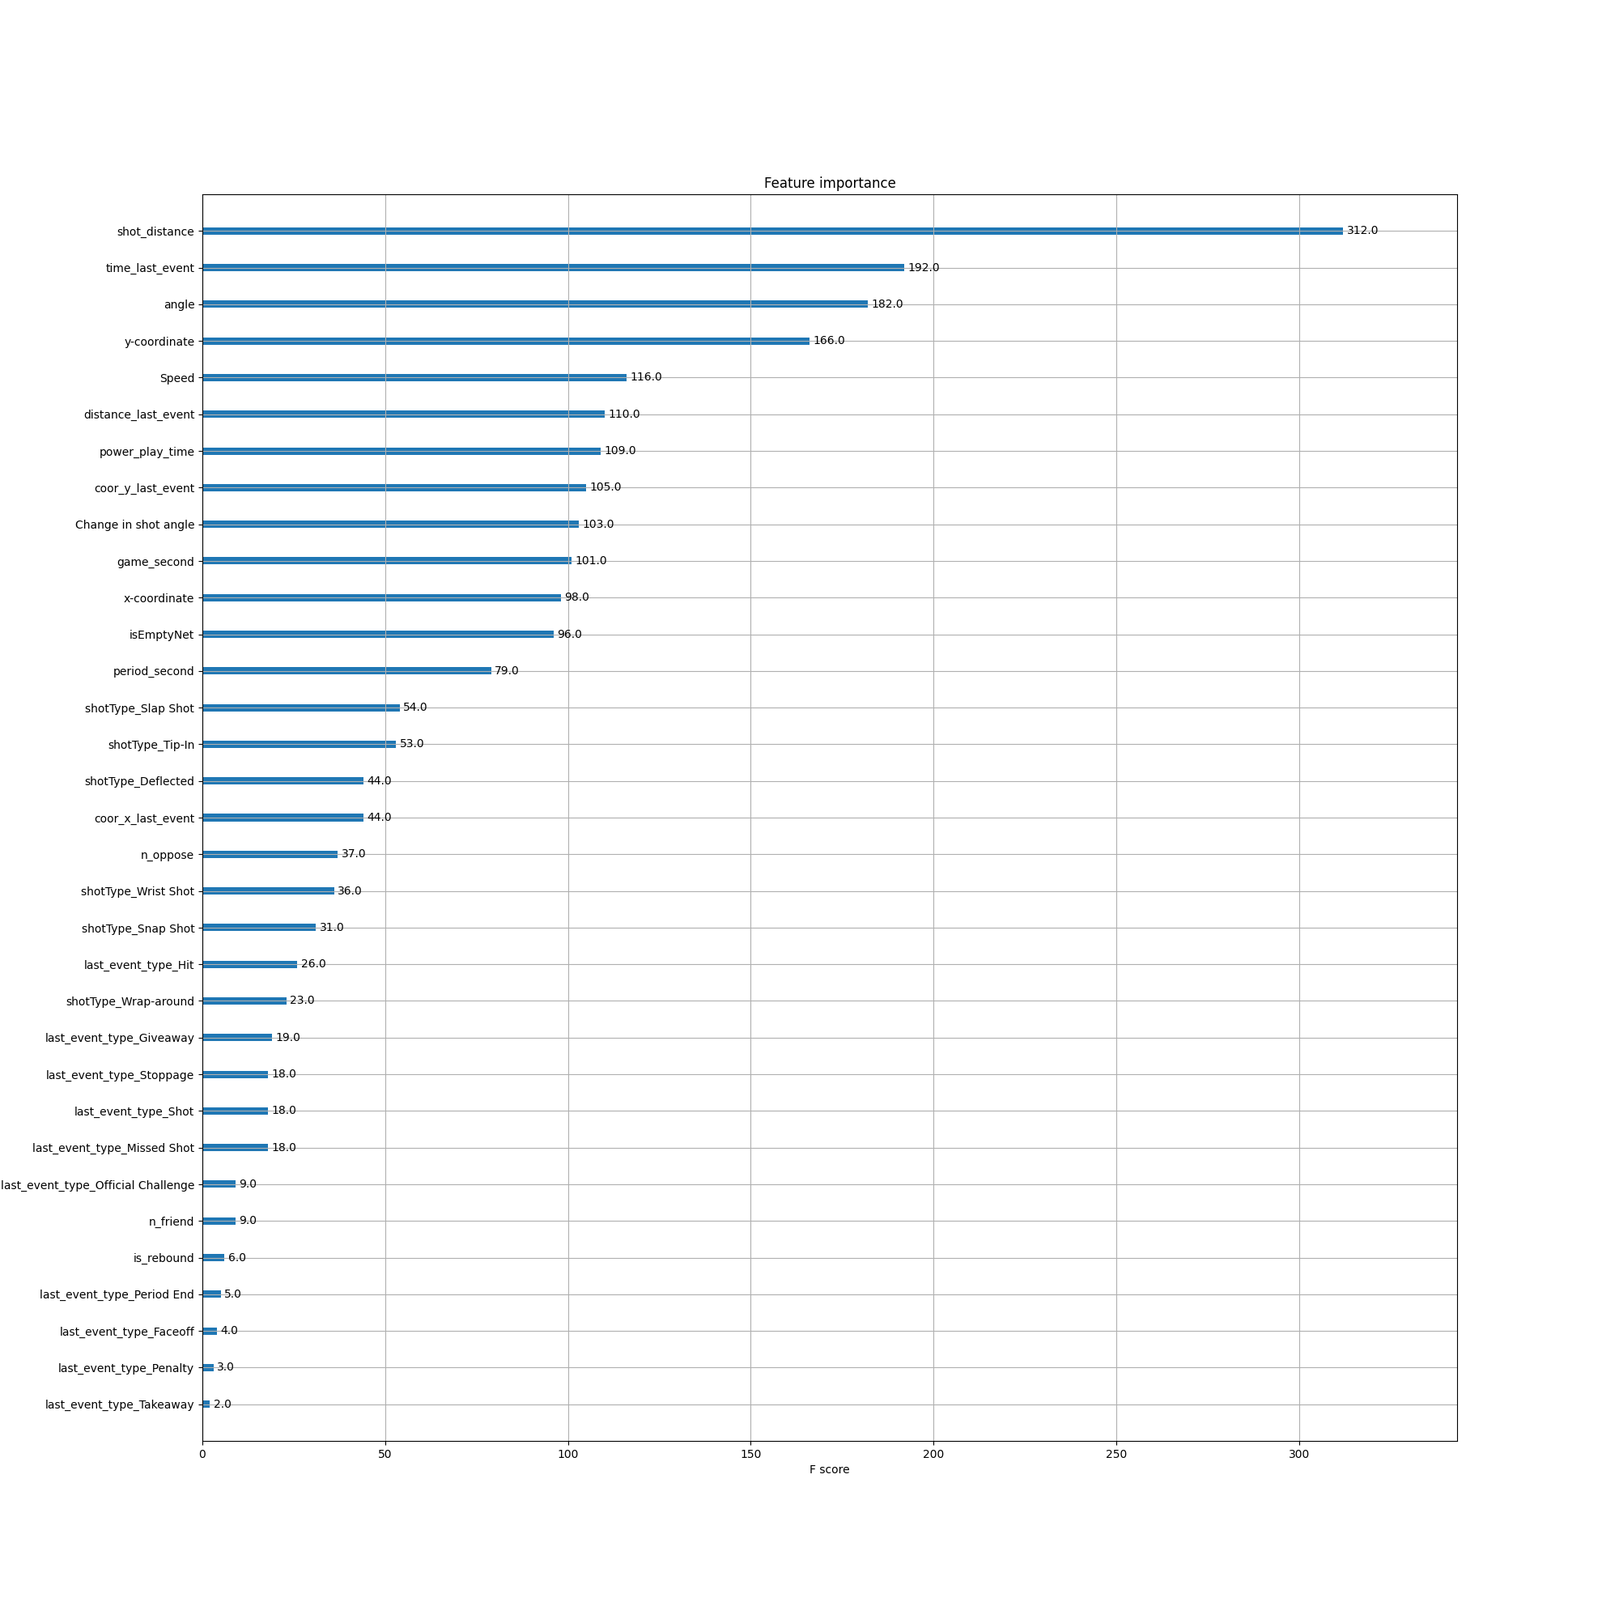
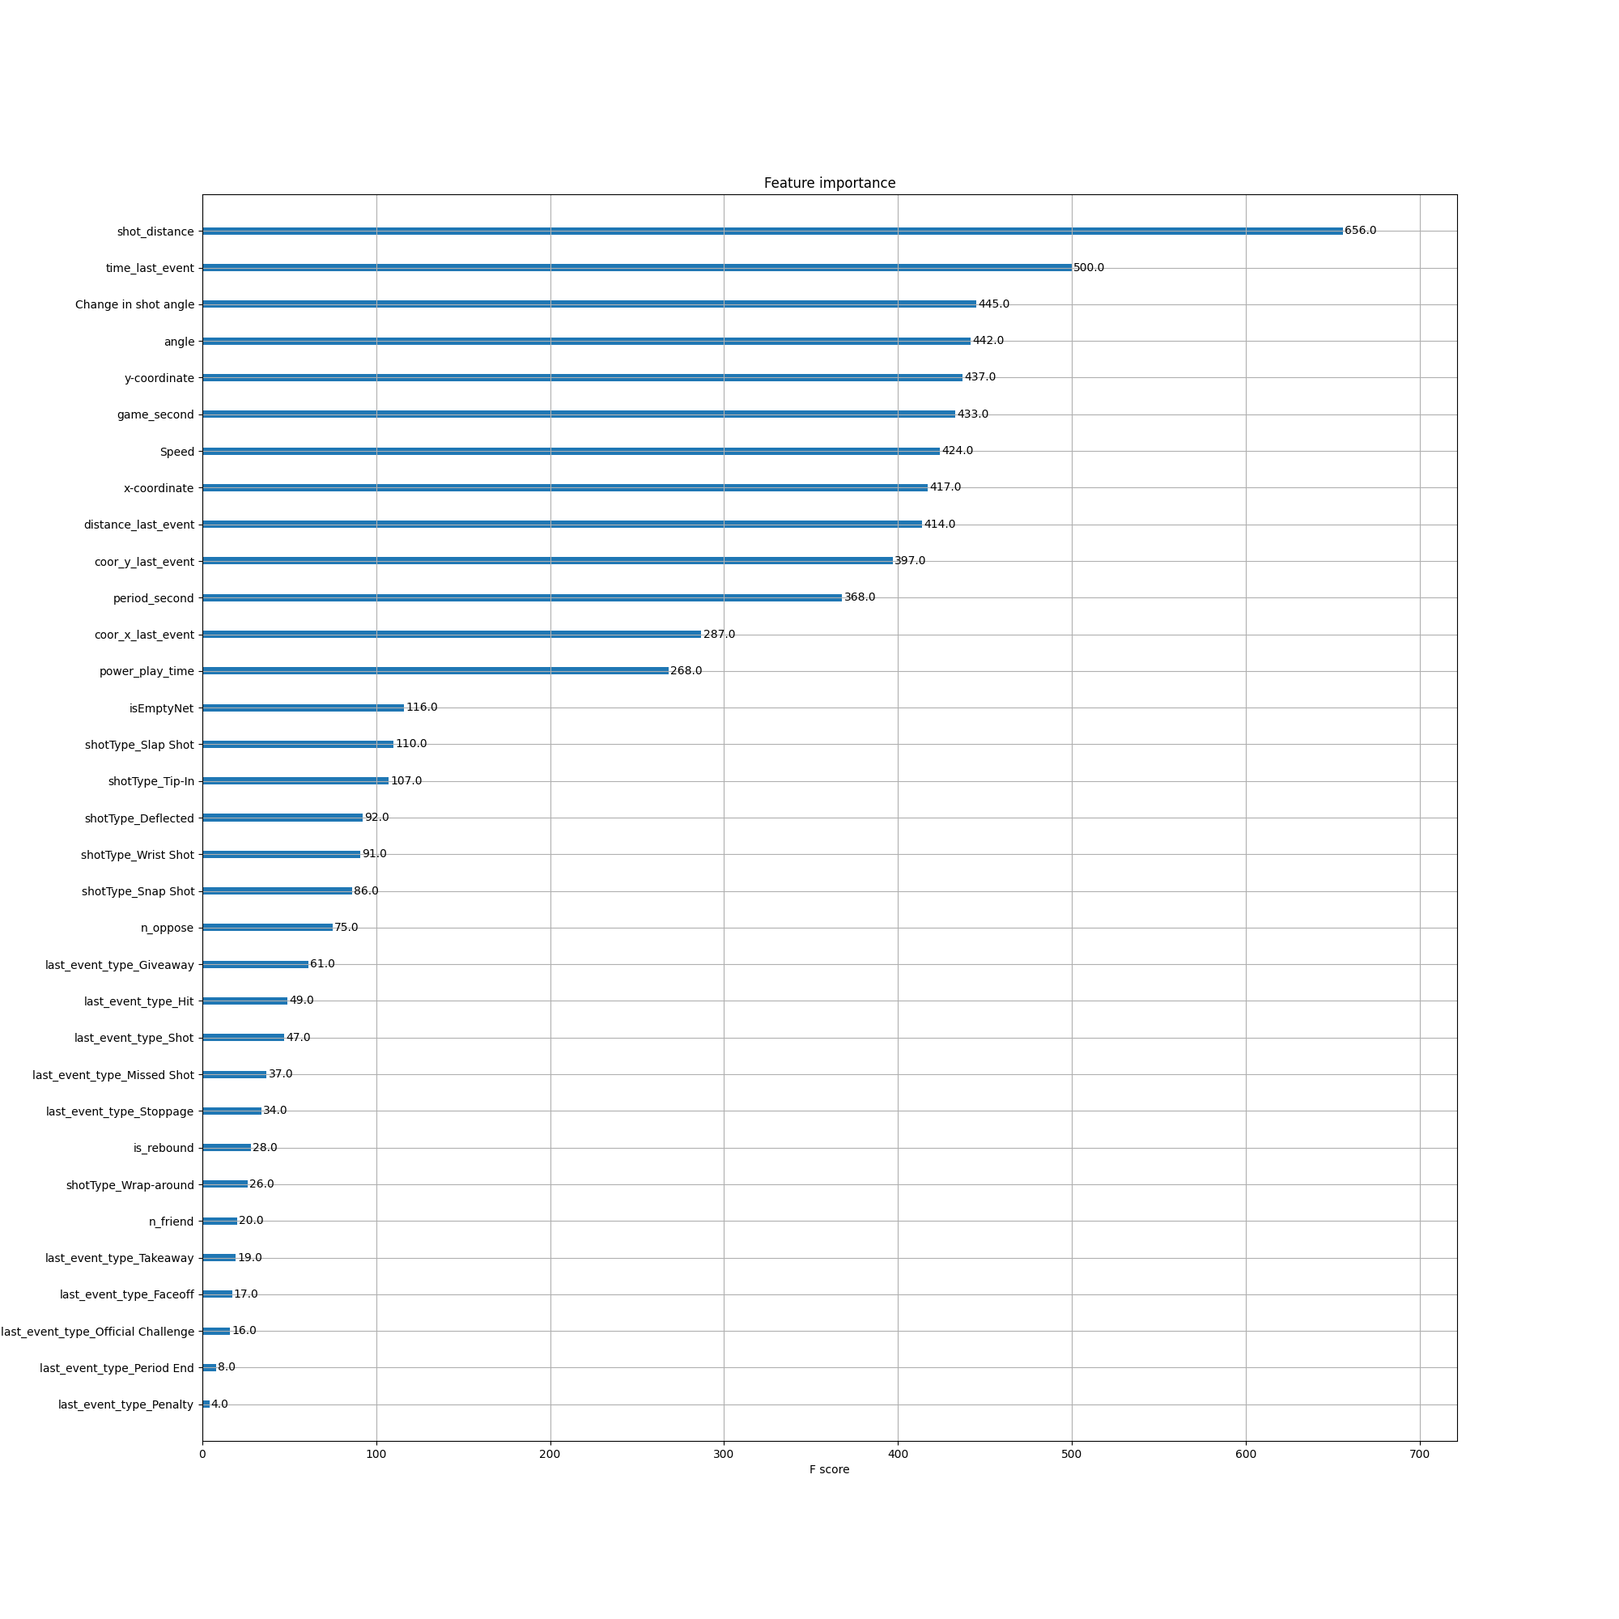
completed blogpost for feature engineering 1 and advanced model. change the code for plotting the advanced model that include four plots in a single figure. log hyper-parameters of the xgboost model to the comet

diff --git a/xgboost_class.py b/xgboost_class.py
@@ -210,25 +210,52 @@ class xgboost_model():
         fig.show()
         fig.write_image(save_path)
 
-    def plot_goal_rate(self, results, save_path):
-        goal_rate_mean = []
-        for i in range(len(results['val']['probabilities'])):
-            df = pd.DataFrame(
-                {'isgoal': results['val']['labels'][i], 'probabilities': results['val']['probabilities'][i]})
-            # calculate shot probability model percentile for each shot
-            df['percentile'] = df['probabilities'].rank(pct=True)
-            # group shots by percentile and calculate goal rate for each group
-            goal_rates = df.groupby(pd.cut(df['percentile'], bins=[
-                                    0]+[i/10 for i in range(1, 11)], include_lowest=True), observed=False)['isgoal'].mean()
-            goal_rate_mean.append(goal_rates)
+    def plot_roc_simple(self, models, results, save_path):
+        for j, model in enumerate(models):
+            fpr_mean = np.linspace(0, 1, 10)
+            interp_tprs = []
+            for i in range(10):
+                fpr = results[j]['val']['fpr'][i]
+                tpr = results[j]['val']['tpr'][i]
+                interp_tpr = np.interp(fpr_mean, fpr, tpr)
+                interp_tpr[0] = 0.0
+                interp_tprs.append(interp_tpr)
+            tpr_mean = np.mean(interp_tprs, axis=0)
+            auc = np.mean(results[j]['val']['auc'])
+            plt.plot(fpr_mean, tpr_mean,
+                     label=f"{model} (area = {round(auc, 2)})")
 
-        goal_rate_mean = np.array(goal_rate_mean).mean(axis=0)
-        goal_rates_mid = []
-        for i in range(len(goal_rates.index)):
-            goal_rates_mid.append(goal_rates.index[i].mid)
+        plt.plot(fpr_mean, fpr_mean, linestyle='--',
+                 color='r', label='random guess')
+        plt.xlabel("False Positive Rate")
+        plt.ylabel("True Positive Rate")
+        plt.title("ROC Curve")
+        plt.legend(loc="lower right")
+        plt.savefig(save_path)
+        plt.show()
 
-        # plot the goal rates as a function of the shot probability model percentile
-        plt.plot(np.array(goal_rates_mid) * 100, goal_rate_mean)
+    def plot_goal_rate(self, models, results, save_path):
+        for j, model in enumerate(models):
+            goal_rate_mean = []
+            for i in range(len(results[j]['val']['probabilities'])):
+                df = pd.DataFrame(
+                    {'isgoal': results[j]['val']['labels'][i], 'probabilities': results[j]['val']['probabilities'][i]})
+                # calculate shot probability model percentile for each shot
+                df['percentile'] = df['probabilities'].rank(pct=True)
+                # group shots by percentile and calculate goal rate for each group
+                goal_rates = df.groupby(pd.cut(df['percentile'], bins=[
+                                        0]+[i/10 for i in range(1, 11)], include_lowest=True), observed=False)['isgoal'].mean()
+                goal_rate_mean.append(goal_rates)
+
+            goal_rate_mean = np.array(goal_rate_mean).mean(axis=0)
+            goal_rates_mid = []
+            for i in range(len(goal_rates.index)):
+                goal_rates_mid.append(goal_rates.index[i].mid)
+
+            # plot the goal rates as a function of the shot probability model percentile
+            plt.plot(np.array(goal_rates_mid) * 100,
+                     goal_rate_mean, label=model)
+
         plt.gca().yaxis.set_major_formatter(mtick.PercentFormatter(xmax=1.0))
         plt.yticks(np.arange(0, 1.1, 0.1))
         plt.xticks(np.arange(0, 110, 10))
@@ -237,36 +264,40 @@ class xgboost_model():
         plt.title('Goal Rate')
         plt.ylabel('Goals / (Shots + Goals)')
         plt.grid(True)
+        plt.legend()
         plt.savefig(save_path)
         plt.show()
 
-    def plot_cumulative(self, results, save_path):
-        goal_rate_mean = []
-        for i in range(len(results['val']['probabilities'])):
-            df = pd.DataFrame(
-                {'isgoal': results['val']['labels'][i], 'probabilities': results['val']['probabilities'][i]})
-            # calculate shot probability model percentile for each shot
-            df['percentile'] = df['probabilities'].rank(pct=True)
-            # group shots by percentile and calculate goal rate for each group
-            goal_rates = df.groupby(pd.cut(df['percentile'], bins=[
-                                    0]+[i/10 for i in range(1, 11)], include_lowest=True), observed=False)['isgoal'].mean()
-            # Calculate the frequency and percentage of goals for each group
-            goal_freq = goal_rates * goal_rates.index.to_series().apply(lambda x: x.length)
-            goal_perc = goal_freq / goal_freq.sum()
-            # cum_goal_perc = goal_perc.cumsum(axis=0)
-            cum_goal_perc = np.cumsum(goal_perc[::-1])[::-1]
-            goal_rate_mean.append(cum_goal_perc)
+    def plot_cumulative(self, models, results, save_path):
+        for j, model in enumerate(models):
+            goal_rate_mean = []
+            for i in range(len(results[j]['val']['probabilities'])):
+                df = pd.DataFrame(
+                    {'isgoal': results[j]['val']['labels'][i], 'probabilities': results[j]['val']['probabilities'][i]})
+                # calculate shot probability model percentile for each shot
+                df['percentile'] = df['probabilities'].rank(pct=True)
+                # group shots by percentile and calculate goal rate for each group
+                goal_rates = df.groupby(pd.cut(df['percentile'], bins=[
+                                        0]+[i/10 for i in range(1, 11)], include_lowest=True), observed=False)['isgoal'].mean()
+                # Calculate the frequency and percentage of goals for each group
+                goal_freq = goal_rates * goal_rates.index.to_series().apply(lambda x: x.length)
+                goal_perc = goal_freq / goal_freq.sum()
+                # cum_goal_perc = goal_perc.cumsum(axis=0)
+                cum_goal_perc = np.cumsum(goal_perc[::-1])[::-1]
+                goal_rate_mean.append(cum_goal_perc)
 
-        goal_rate_mean = np.array(goal_rate_mean).mean(axis=0)
-        goal_rates_mid = []
-        for i in range(len(goal_rates.index)):
-            goal_rates_mid.append(goal_rates.index[i].mid)
+            goal_rate_mean = np.array(goal_rate_mean).mean(axis=0)
+            goal_rates_mid = []
+            for i in range(len(goal_rates.index)):
+                goal_rates_mid.append(goal_rates.index[i].mid)
 
-        goal_rate_mean = np.append(goal_rate_mean, 0)
-        goal_rates_mid = np.append(goal_rates_mid, 1)
+            goal_rate_mean = np.append(goal_rate_mean, 0)
+            goal_rates_mid = np.append(goal_rates_mid, 1)
 
-        # plot the goal rates as a function of the shot probability model percentile
-        plt.plot(np.array(goal_rates_mid) * 100, goal_rate_mean)
+            # plot the goal rates as a function of the shot probability model percentile
+            plt.plot(np.array(goal_rates_mid) * 100,
+                     goal_rate_mean, label=model)
+
         plt.gca().yaxis.set_major_formatter(mtick.PercentFormatter(xmax=1.0))
         plt.yticks(np.arange(0, 1.1, 0.1))
         plt.xticks(np.arange(0, 110, 10))
@@ -274,6 +305,7 @@ class xgboost_model():
         plt.xlabel('Shot Probability Model Percentile')
         plt.ylabel('Proportion')
         plt.title('Cumulative % of Goals')
+        plt.legend()
         plt.grid(True)
         plt.savefig(save_path)
         plt.show()
@@ -289,7 +321,7 @@ class xgboost_model():
         disp.figure_.savefig(save_path)
         plt.show()
 
-    def log_experiment(self, results, experiment_tag, log_model, model_name, model_path):
+    def log_experiment(self, results, experiment_tag, log_model, model_name, model_path, hp, hparameters):
         experiment = Experiment(api_key=os.getenv("COMET_API_KEY"), project_name=os.getenv(
             "COMET_PROJECT_NAME"), workspace=os.getenv("COMET_WORKSPACE"))
         accuracy = np.mean(results['val']['accuracy'])
@@ -300,6 +332,8 @@ class xgboost_model():
         experiment.log_metrics(metrics)
         experiment.add_tag(experiment_tag)
         experiment.log_confusion_matrix(matrix=confusion_matrix)
+        if hp:
+            experiment.log_parameters(hparameters)
         if log_model:
             experiment.log_model(model_name, model_path)
 

diff --git a/advanced_model.py b/advanced_model.py
@@ -4,26 +4,30 @@ from dotenv import load_dotenv
 load_dotenv()
 
 
-def train_model_and_plot(train_data, train_label, params, model_name, tag, log_model, model_path):
+def train_model_and_plot(train_data, train_label, params, model_name, tag, log_model, model_path, hp, hparameters):
     results = xgml.train_model(train_data, train_label, params)
 
-    xgml.plot_roc(results, os.getenv(
-        "XGB_IMAGE_PATH") + model_name + '_roc.png')
+    # xgml.plot_roc(results, os.getenv(
+    #     "XGB_IMAGE_PATH") + model_name + '_roc.png')
 
-    xgml.plot_goal_rate(results, os.getenv(
-        "XGB_IMAGE_PATH") + model_name + '_goal_rate.png')
+    # xgml.plot_goal_rate(results, os.getenv(
+    #     "XGB_IMAGE_PATH") + model_name + '_goal_rate.png')
 
-    xgml.plot_cumulative(results, os.getenv(
-        "XGB_IMAGE_PATH") + model_name + '_cumulative.png')
+    # xgml.plot_cumulative(results, os.getenv(
+    #     "XGB_IMAGE_PATH") + model_name + '_cumulative.png')
 
-    xgml.plot_calibration_curve(results, os.getenv(
-        "XGB_IMAGE_PATH") + model_name + '_calibration_curve.png')
+    # xgml.plot_calibration_curve(results, os.getenv(
+    #     "XGB_IMAGE_PATH") + model_name + '_calibration_curve.png')
 
-    xgml.log_experiment(results, tag, log_model, model_name, model_path)
+    xgml.log_experiment(results, tag, log_model, model_name,
+                        model_path, hp, hparameters)
+
+    return results
 
 
 if __name__ == "__main__":
     xgml = xgboost_model()
+    plot_results = []
 
     train_data, train_label = xgml.baseline_preprocessing()
 
@@ -33,13 +37,17 @@ if __name__ == "__main__":
     }
 
     print('Training baseline model and plotting...')
-    train_model_and_plot(train_data, train_label, params,
-                         'baseline', 'xgboost_baseline', False, '')
+    res = train_model_and_plot(train_data, train_label, params,
+                               'baseline', 'xgboost_baseline', log_model=False, model_path='', hp=False, hparameters={})
+
+    plot_results.append(res)
+
+    xgml.plot_calibration_curve(res, os.getenv(
+        "XGB_IMAGE_PATH") + 'xgboost_baseline' + '_calibration_curve.png')
 
     param_grid = {
         'objective': ['binary:logistic'],
         'max_depth': [3, 5, 7],
-        'n_estimators': [50, 100, 200],
         'learning_rate': [0.1, 0.01],
         'reg_alpha': [0.1, 0.001]
     }
@@ -53,7 +61,6 @@ if __name__ == "__main__":
 
     best_params['eval_metric'] = 'logloss'
     print(best_params)
-    del best_params['n_estimators']
 
     print('Training hyperparameter tuned model without cross validation for saving...')
     hptuned_model = xgml.train_model_nocv(train_data, train_label, best_params)
@@ -63,9 +70,14 @@ if __name__ == "__main__":
         os.getenv("XGB_MODEL_PATH") + 'hptuned_model.json')
 
     print('Training hyperparameter tuned model and plotting...')
-    train_model_and_plot(train_data, train_label, best_params,
-                         'hp_tuning', 'xgboost_hp_tuning', True,
-                         os.getenv("XGB_MODEL_PATH") + 'hptuned_model.json')
+    res = train_model_and_plot(train_data, train_label, best_params,
+                               'hp_tuning', 'xgboost_hp_tuning', log_model=True,
+                               model_path=os.getenv("XGB_MODEL_PATH") + 'hptuned_model.json', hp=True, hparameters=best_params)
+
+    plot_results.append(res)
+
+    xgml.plot_calibration_curve(res, os.getenv(
+        "XGB_IMAGE_PATH") + 'xgboost_hp_tuning' + '_calibration_curve.png')
 
     print('Performing feature selection...')
     train_data_feature_selected = xgml.feature_selection(train_data, train_label, best_params, os.getenv(
@@ -80,6 +92,20 @@ if __name__ == "__main__":
         os.getenv("XGB_MODEL_PATH") + 'feature_selected_model.json')
 
     print('Training feature selected model and plotting...')
-    train_model_and_plot(train_data_feature_selected,
-                         train_label, best_params, 'feature_selected', 'xgboost_feature_selected',
-                         True, os.getenv("XGB_MODEL_PATH") + 'feature_selected_model.json')
+    res = train_model_and_plot(train_data_feature_selected,
+                               train_label, best_params, 'feature_selected', 'xgboost_feature_selected',
+                               log_model=True, model_path=os.getenv("XGB_MODEL_PATH") + 'feature_selected_model.json', hp=False, hparameters={})
+
+    plot_results.append(res)
+
+    xgml.plot_calibration_curve(res, os.getenv(
+        "XGB_IMAGE_PATH") + 'xgboost_feature_selected' + '_calibration_curve.png')
+
+    xgml.plot_roc_simple(
+        ['xgboost_baseline', 'xgboost_hp_tuning', 'xgboost_feature_selected'], plot_results, os.getenv("XGB_IMAGE_PATH") + 'roc.png')
+
+    xgml.plot_goal_rate(['xgboost_baseline', 'xgboost_hp_tuning', 'xgboost_feature_selected'], plot_results, os.getenv(
+        "XGB_IMAGE_PATH") + 'goal_rate.png')
+
+    xgml.plot_cumulative(['xgboost_baseline', 'xgboost_hp_tuning', 'xgboost_feature_selected'], plot_results, os.getenv(
+        "XGB_IMAGE_PATH") + 'cumulative.png')

diff --git a/docs/feat_eng_adv_mdl.md b/docs/feat_eng_adv_mdl.md
@@ -19,20 +19,48 @@ This figure shows how the probability of scoring a goal changes with the distanc
 
 ![alt text](../images/feature_engineering1/goal_rate_distance.png)
 
-
+This figure shows the effect of distance from the net and net emptiness on the probability of scoring a goal. As explained in the document, the probability of scoring a goal with a non-empty net decreases as the distance increases, which is expected because it is harder to shoot past the goalie from far away. However, the probability of scoring a goal with an empty net does not follow the same trend. Although the probability is very low even near the net, because it is rare that the net is empty, there are some cases where the players score from a long distance when the net is empty. This may be because the players take advantage of the situation and try to shoot from their own zone or the neutral zone.
 
 ![alt text](../images/feature_engineering1/empty_net.png)
+
 ## Advanced Models
 ### 1.
 
 To evaluate the model performance more reliably and robustly, I used repeated k-fold cross-validation with k=5 and 10 repetitions. This technique splits the data into five folds and trains and validates the model on different combinations of them. Then, it averages the results over the repetitions to reduce the variance of the estimate[1]. The following figures show the results of this section.
+[This is the link to the experiment.](https://www.comet.com/ift6758-b09-project/ift6758-project-milestone2/bd6de33ca21d428da3dfbad5d8a45538)
 
-![alt text](../images/xgb/baseline_roc.png "baseline_roc")
-![alt text](../images/xgb/baseline_goal_rate.png "baseline_goal_rate")
-![alt text](../images/xgb/baseline_cumulative.png "baseline_cumulative")
-![alt text](../images/xgb/baseline_calibration_curve.png "baseline_calibration_curve")
+
 
 **Compare with logistic regression baseline**
 
 
 [1]: For this section i have used the codes of this [website](https://towardsdatascience.com/pooled-roc-with-xgboost-and-plotly-553a8169680c#:~:text=To%20get%20a%20ROC%20curve,validation%20and%20got%20500%20results.)
+
+### 2.
+We selected 'max_depth', 'n_estimators', 'learning_rate', and 'reg_alpha' as the hyperparameters that have the most influence on the model accuracy. We used the scikit-learn GridSearchCV function to find the best values for these hyperparameters. The best settings for the hyperparameters are: 'max_depth': 5, 'n_estimators': 200, 'learning_rate': 0.1, and 'reg_alpha': 0.001. The following figures show the results of hyper-parameter tuning.
+
+As you can see from the figures, the accuracy of the model, which is measured by AUC, has increased noticeably by almost 0.06. This means that the model can better distinguish between positive and negative classes. In addition, by looking at the calibration curve, we can say that now the model is better calibrated and performs well enough on the validation set. A well-calibrated model is one that produces probabilities that match the true outcomes. For example, if the model predicts a 70% chance of rain, it should rain 70% of the time.
+
+First of all, we created a correlation matrix for the features and set a threshold of 90% in order to remove the redundant features. After applying this, we found that period and game_second were correlated and we deleted one of them randomly. After that, we performed the xgboost plot_importance function and we got the result like the below figure. As you can see, by setting our threshold to 200, we can keep the important features and delete the rest. After this, we also calculated SHAP values for the data, which are visible in the below figure. SHAP values measure how much each feature contributes to the model prediction, either positively or negatively. After doing these two methods, we kept the features that both of them had found important, which are the following. 
+```
+['shot_distance', 'time_last_event', 'angle',
+'y-coordinate', 'Change in shot angle',
+'distance_last_event', 'game_second',
+'Speed', 'coor_y_last_event', 'x-coordinate',
+'power_play_time']
+```
+
+![alt text](../images/xgb/feature_importance.png)
+
+![alt text](../images/xgb/shap_importance.png)
+
+
+As you can see, by choosing the features that we obtained from the feature selection techniques, the ROC curve is lower than before doing this, but this model is more calibrated, which means it has more confidence about its predictions. A lower ROC curve means that the model has a lower accuracy, or the ability to correctly classify positive and negative cases. However, a more calibrated model means that the model's predicted probabilities are closer to the true probabilities, or the actual outcomes.
+
+
+
+![alt text](../images/xgb/roc.png)
+![alt text](../images/xgb/goal_rate.png)
+![alt text](../images/xgb/cumulative.png)
+
+
